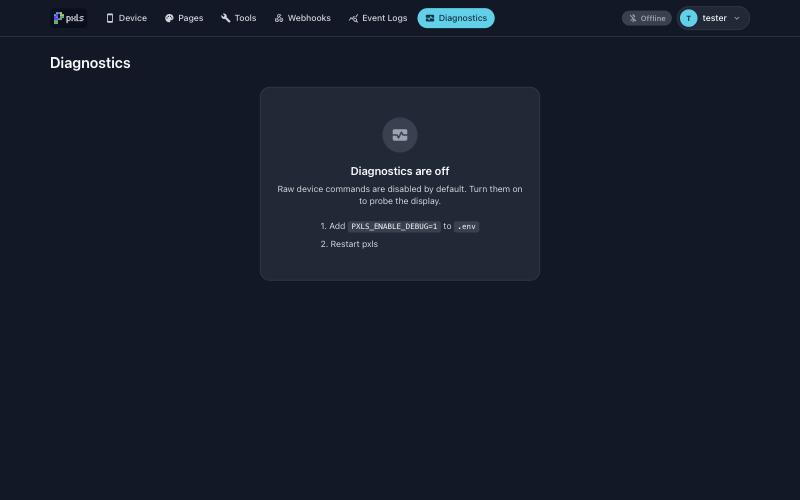
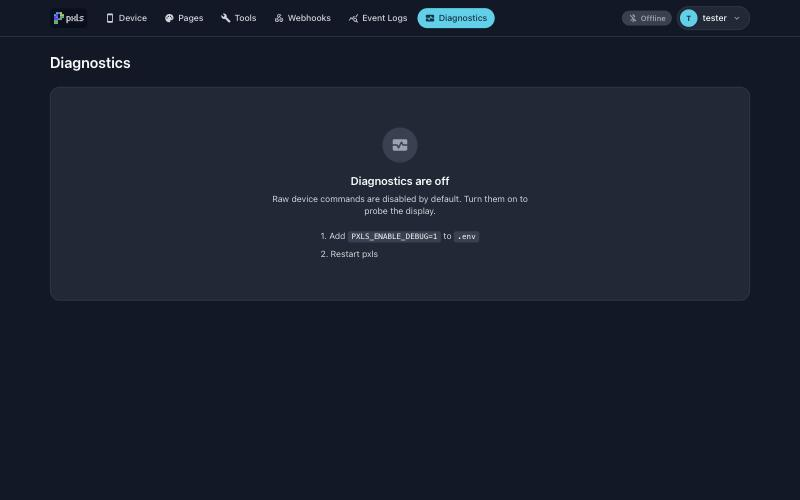
Let the Diagnostics off card use the full page width

Changed region(s): [[0.3438, 0.24, 0.6562, 0.51]]

diff --git a/web/src/components/screens/DiagnosticsPage.tsx b/web/src/components/screens/DiagnosticsPage.tsx
@@ -84,12 +84,12 @@ export function DiagnosticsPage({ onNotify }: Props) {
     return (
       <div className="space-y-6">
         <h2 className="text-2xl font-semibold">Diagnostics</h2>
-        <div className="mx-auto flex max-w-md flex-col items-center rounded-2xl border border-line bg-surface px-6 py-12 text-center shadow-card">
+        <div className="flex w-full flex-col items-center rounded-2xl border border-line bg-surface px-6 py-16 text-center shadow-card">
           <span className="grid h-14 w-14 place-items-center rounded-full bg-surface2 text-muted" aria-hidden>
             <MdMonitorHeart className="h-7 w-7" />
           </span>
           <h3 className="mt-4 text-lg font-semibold">Diagnostics are off</h3>
-          <p className="mt-1 text-sm text-ink2">
+          <p className="mt-1 max-w-md text-sm text-ink2">
             Raw device commands are disabled by default. Turn them on to probe the display.
           </p>
           <ol className="mt-5 space-y-2 text-left text-sm text-ink2">
